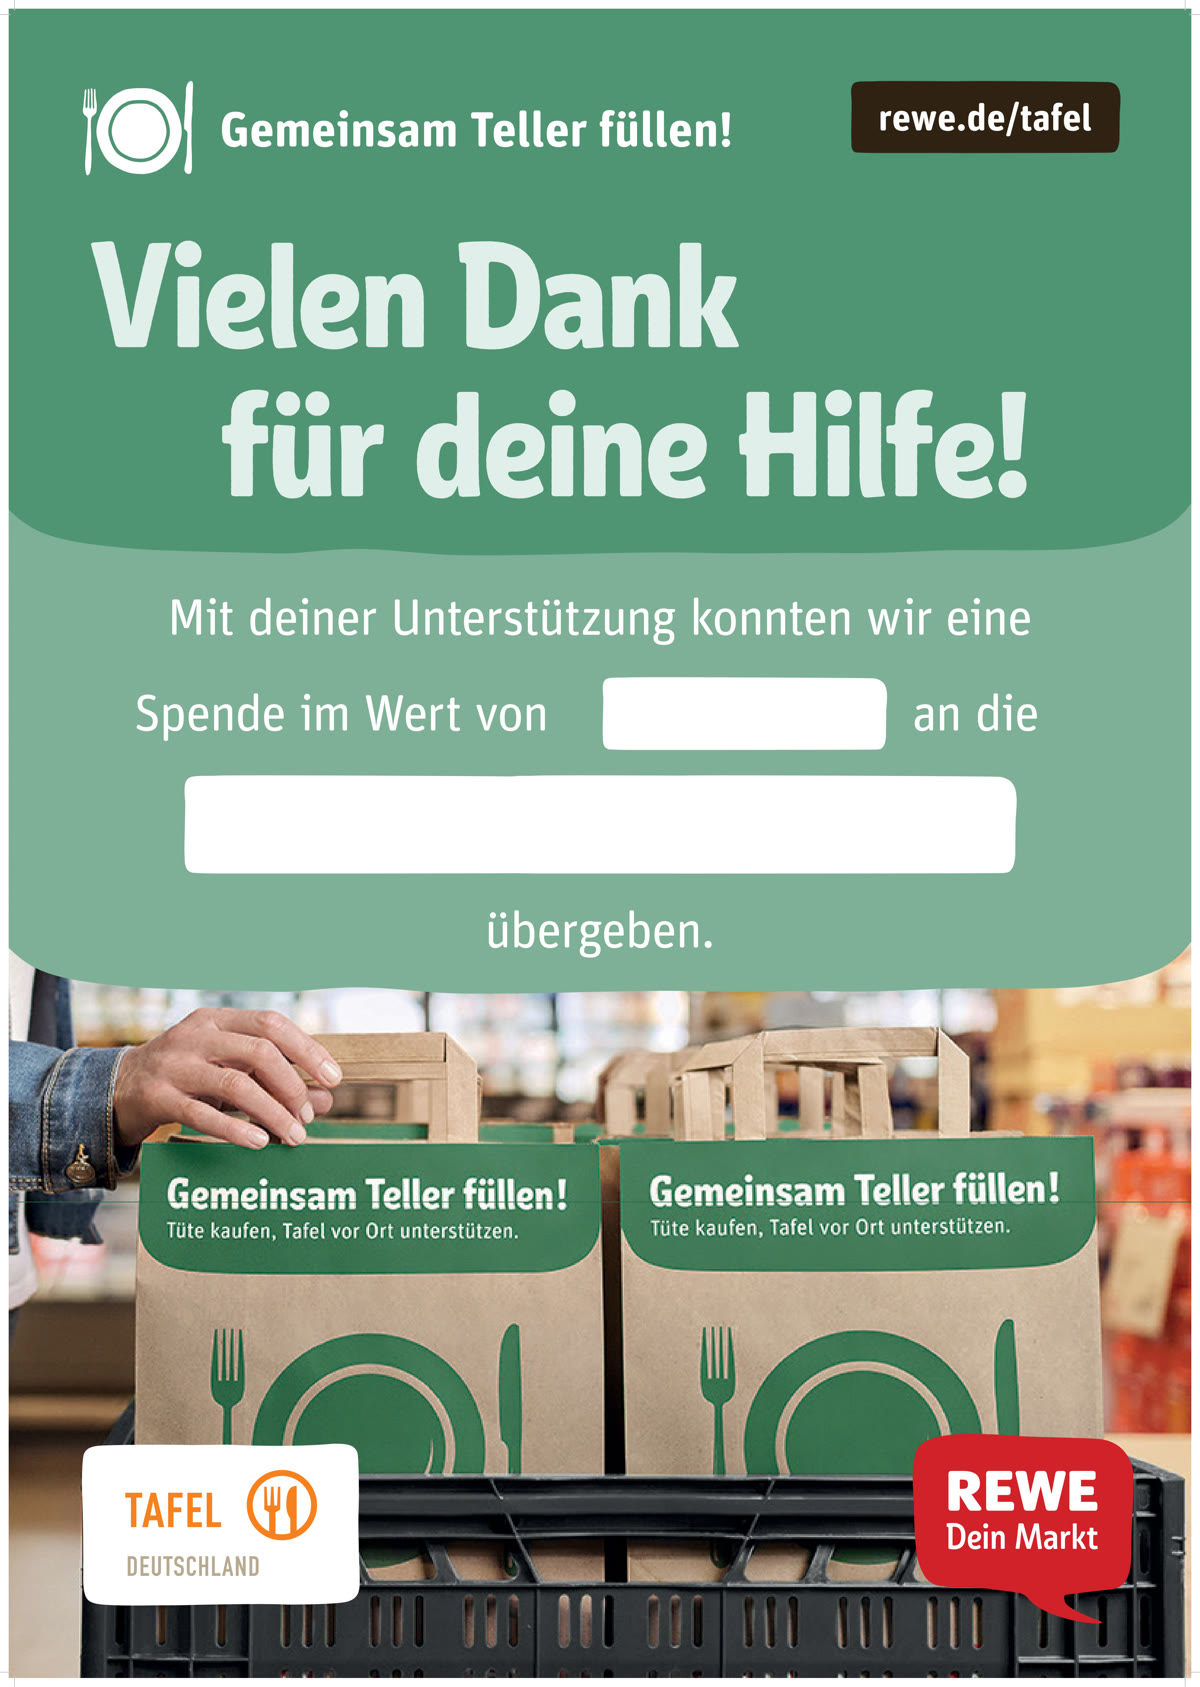
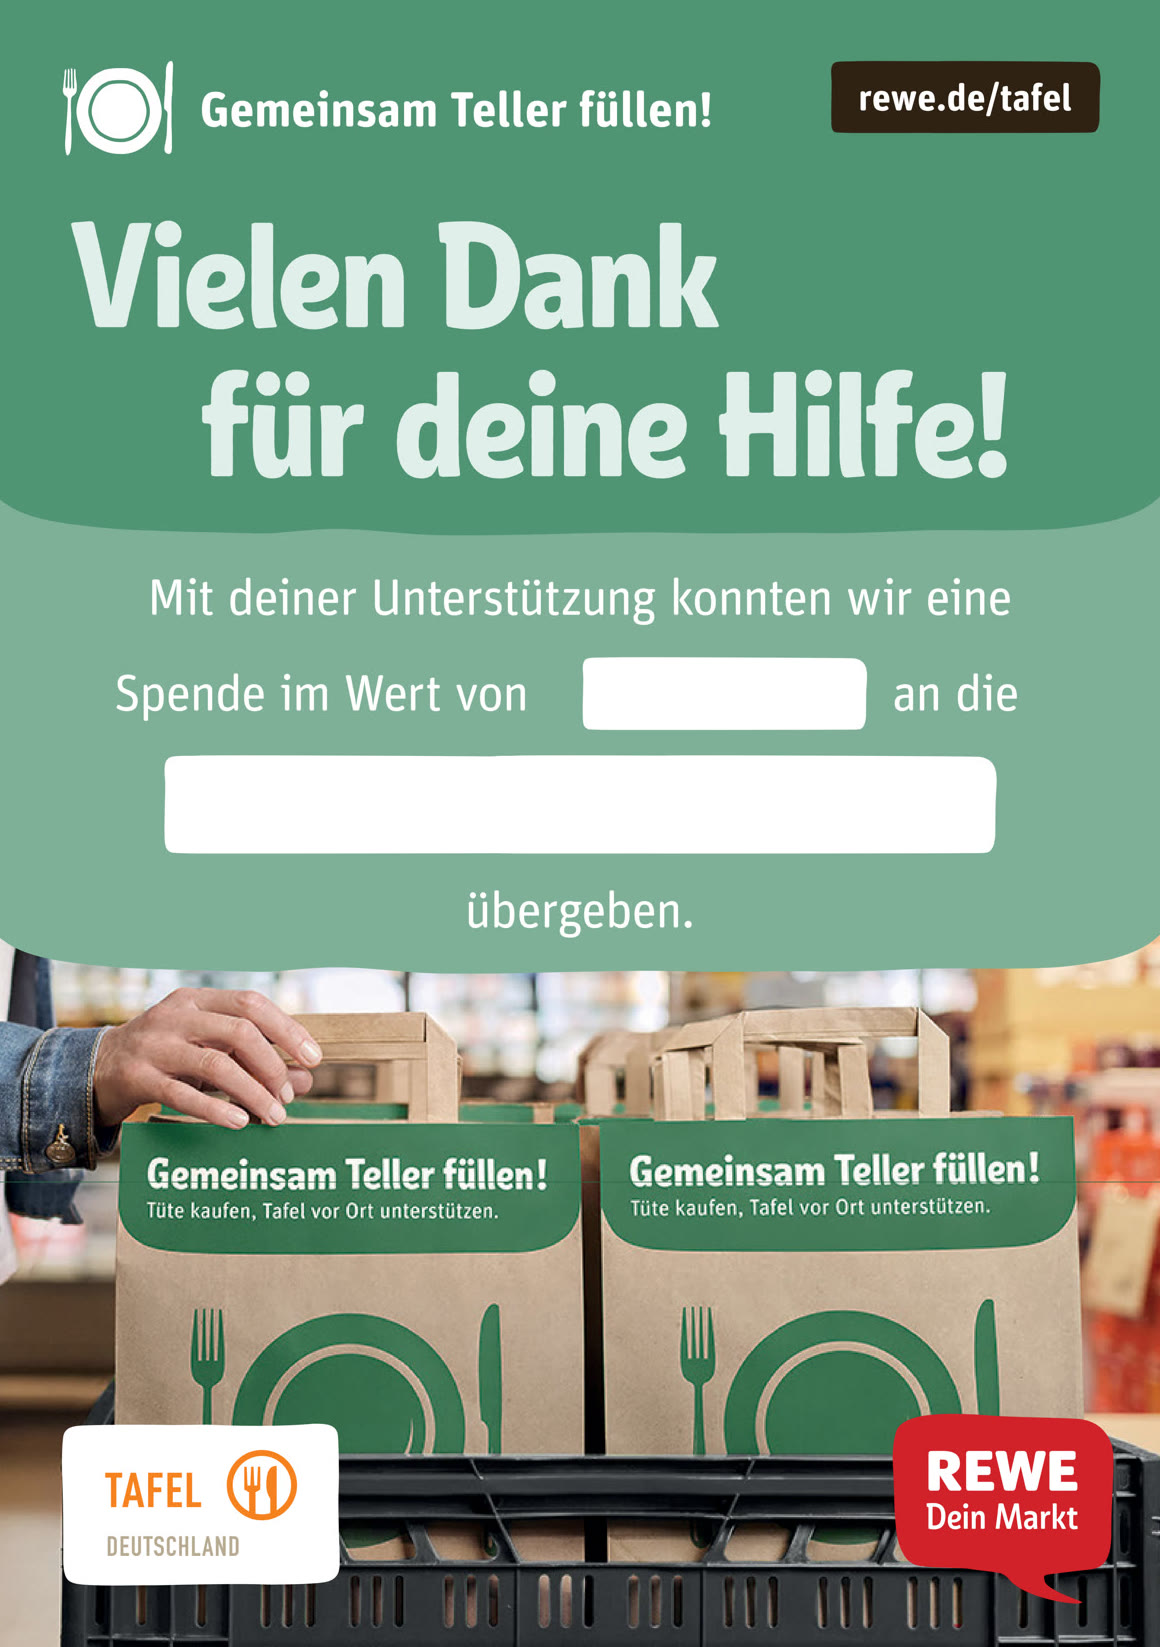
REWE Art Direction: Zuschnittsmarken bei Tafel-Kommunikation entfernen

Changed region(s): [[0.0, 0.0, 1.0, 1.0], [0.0931, 0.4026, 0.4655, 0.5264], [0.8379, 0.4645, 0.869, 0.5264]]

diff --git a/lib/projects.ts b/lib/projects.ts
@@ -201,8 +201,8 @@ export const projects: Project[] = [
     gallery: [
       { slotId: "detail-6", ratio: "1200/675", span2: true, src: "/projects/rewe-art-direction/weisser-bohnensalat.jpg", caption: "Rezeptkommunikation: Weißer Bohnensalat", placeholder: "Foto hier ablegen" },
       { slotId: "detail-7b", ratio: "800/1200", src: "/projects/rewe-art-direction/wassermelonen-eistee.jpg", caption: "Rezeptkommunikation: Wassermelonen-Limetten-Eistee", placeholder: "Foto (Hochformat) hier ablegen" },
-      { slotId: "detail-2", ratio: "1200/1687", src: "/projects/rewe-art-direction/dankeskommunikation.jpg", caption: "Dankesplakat: „Gemeinsam Teller füllen“ für die Tafel-Kooperation", placeholder: "Foto (Hochformat) hier ablegen" },
-      { slotId: "detail-3", ratio: "1200/1673", src: "/projects/rewe-art-direction/selfcheckout.jpg", caption: "Infotafel am Self-Checkout: Ablauf der Spendenaktion", placeholder: "Foto (Hochformat) hier ablegen" },
+      { slotId: "detail-2", ratio: "1160/1647", src: "/projects/rewe-art-direction/dankeskommunikation.jpg", caption: "Dankesplakat: „Gemeinsam Teller füllen“ für die Tafel-Kooperation", placeholder: "Foto (Hochformat) hier ablegen" },
+      { slotId: "detail-3", ratio: "1140/1613", src: "/projects/rewe-art-direction/selfcheckout.jpg", caption: "Infotafel am Self-Checkout: Ablauf der Spendenaktion", placeholder: "Foto (Hochformat) hier ablegen" },
       { slotId: "detail-4", ratio: "600/1223", src: "/projects/rewe-art-direction/sesameis.jpg", caption: "Xmas-POS für REWE Feine Welt: Sesamreis mit Kokos auf Mango-Spiegel", placeholder: "Foto (Hochformat) hier ablegen" },
       { slotId: "detail-4b", ratio: "600/1223", src: "/projects/rewe-art-direction/sesameis-rezept.jpg", caption: "Rückseite mit Zutaten und Zubereitung", placeholder: "Foto (Hochformat) hier ablegen" },
       { slotId: "detail-4c", ratio: "1/1", src: "/projects/rewe-art-direction/neukundenrabatt.jpg", video: "/projects/rewe-art-direction/neukundenrabatt.mp4", caption: "Social-Ad (Video): 20 € Neukundengutschein für den REWE Lieferservice", placeholder: "Video hier ablegen" },
